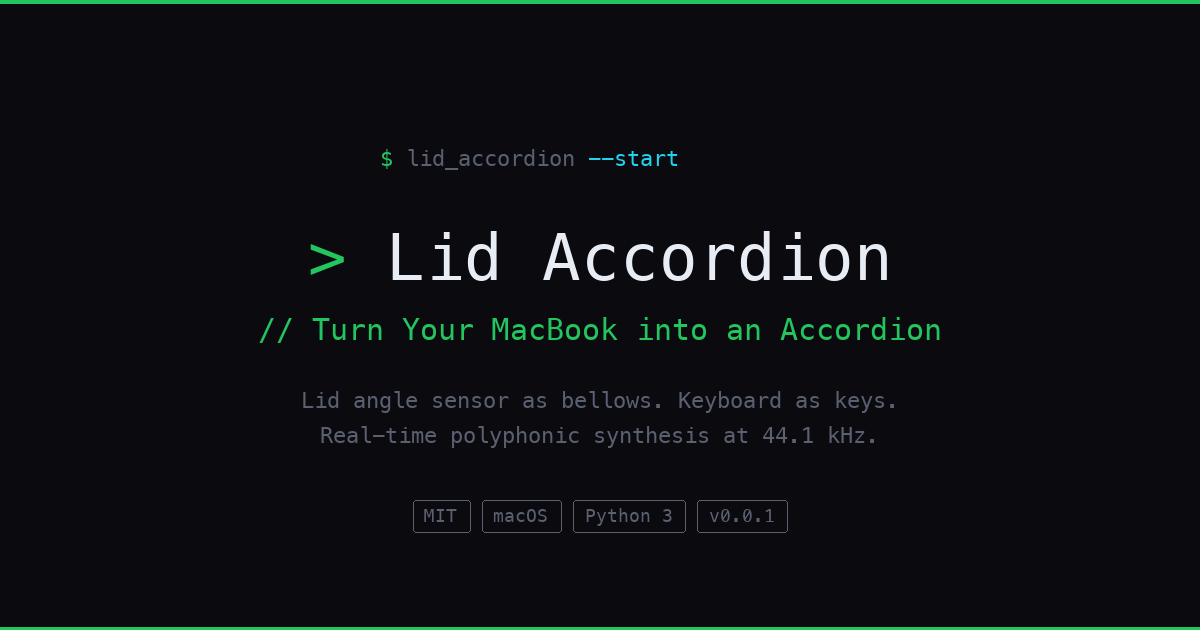
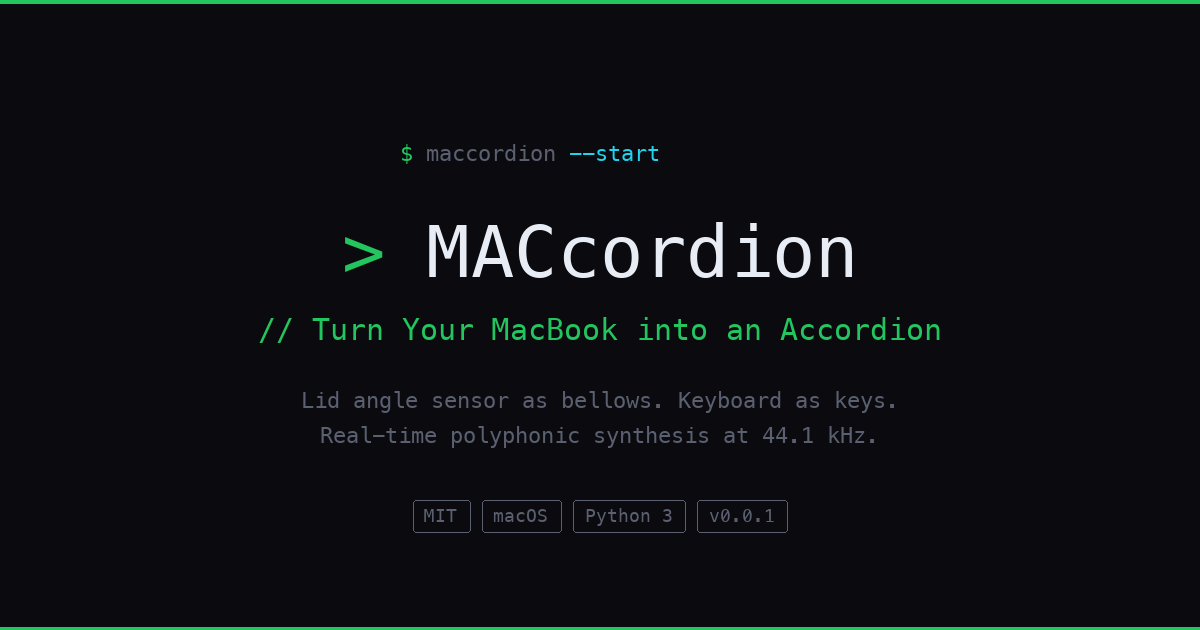
Rebrand to MACcordion (Mac + Accordion)
- Rename all instances of Lid Accordion to MACcordion
- Update OG/Twitter/JSON-LD metadata
- Regenerate OG image with new branding
- Update terminal prompt: $ maccordion --start
- Add MACcordion to SEO keywords

Changed region(s): [[0.2467, 0.3317, 0.74, 0.4524], [0.3083, 0.2111, 0.555, 0.2714]]

diff --git a/docs/index.html b/docs/index.html
@@ -3,28 +3,28 @@
 <head>
   <meta charset="UTF-8">
   <meta name="viewport" content="width=device-width, initial-scale=1.0">
-  <title>Lid Accordion — Turn Your MacBook into an Accordion</title>
+  <title>MACcordion — Turn Your MacBook into an Accordion</title>
   <meta name="description" content="Turn your MacBook into a virtual accordion! Uses the lid angle sensor as bellows, keyboard as keys, with real-time polyphonic audio synthesis. Free and open source.">
 
   <!-- SEO -->
-  <meta name="keywords" content="MacBook, accordion, lid angle sensor, music, synthesizer, macOS, open source, pygame, real-time audio">
+  <meta name="keywords" content="MACcordion, MacBook, accordion, lid angle sensor, music, synthesizer, macOS, open source, pygame, real-time audio">
   <meta name="author" content="MacacaGames">
   <link rel="canonical" href="https://lidaccordion.macaca.games/">
 
   <!-- Open Graph -->
   <meta property="og:type" content="website">
-  <meta property="og:title" content="Lid Accordion — Turn Your MacBook into an Accordion">
+  <meta property="og:title" content="MACcordion — Turn Your MacBook into an Accordion">
   <meta property="og:description" content="Turn your MacBook into a virtual accordion! Uses the lid angle sensor as bellows, keyboard as keys, with real-time audio synthesis.">
   <meta property="og:url" content="https://lidaccordion.macaca.games/">
   <meta property="og:image" content="https://lidaccordion.macaca.games/assets/og-image.png">
   <meta property="og:image:width" content="1200">
   <meta property="og:image:height" content="630">
-  <meta property="og:site_name" content="Lid Accordion">
+  <meta property="og:site_name" content="MACcordion">
   <meta property="og:locale" content="en_US">
 
   <!-- Twitter Card -->
   <meta name="twitter:card" content="summary_large_image">
-  <meta name="twitter:title" content="Lid Accordion — Turn Your MacBook into an Accordion">
+  <meta name="twitter:title" content="MACcordion — Turn Your MacBook into an Accordion">
   <meta name="twitter:description" content="Turn your MacBook into a virtual accordion! Uses the lid angle sensor as bellows, keyboard as keys, with real-time audio synthesis.">
   <meta name="twitter:image" content="https://lidaccordion.macaca.games/assets/og-image.png">
 
@@ -33,7 +33,7 @@
   {
     "@context": "https://schema.org",
     "@type": "SoftwareApplication",
-    "name": "Lid Accordion",
+    "name": "MACcordion",
     "description": "Turn your MacBook into a virtual accordion using the lid angle sensor as bellows with real-time polyphonic audio synthesis.",
     "url": "https://lidaccordion.macaca.games/",
     "applicationCategory": "MultimediaApplication",
@@ -58,7 +58,7 @@
   <!-- Sticky Nav -->
   <nav class="nav" id="nav">
     <div class="nav-inner">
-      <a href="#" class="nav-brand">🪗 Lid Accordion</a>
+      <a href="#" class="nav-brand">🪗 MACcordion</a>
       <div class="nav-links">
         <a href="#features">Features</a>
         <a href="#demo">Demo</a>
@@ -74,8 +74,8 @@
     <div class="scanlines"></div>
     <div class="hero-glow"></div>
     <div class="container">
-      <div class="terminal-line"><span class="prompt">$</span> lid_accordion <span class="flag">--start</span></div>
-      <h1><span class="blink">&gt;</span> Lid Accordion</h1>
+      <div class="terminal-line"><span class="prompt">$</span> maccordion <span class="flag">--start</span></div>
+      <h1><span class="blink">&gt;</span> MACcordion</h1>
       <p class="tagline">// Turn Your MacBook into an Accordion</p>
       <p class="subtitle">Lid angle sensor as bellows. Keyboard as keys. Real-time polyphonic synthesis at 44.1 kHz.</p>
       <div class="hero-actions">
@@ -127,7 +127,7 @@
       <h2>See It in Action</h2>
       <p class="section-desc">Watch how the MacBook lid becomes your bellows</p>
       <div class="demo-video">
-        <iframe src="https://www.youtube.com/embed/Ar1lbyOmlVo" title="Lid Accordion Demo" frameborder="0" allow="accelerometer; autoplay; clipboard-write; encrypted-media; gyroscope; picture-in-picture" allowfullscreen loading="lazy"></iframe>
+        <iframe src="https://www.youtube.com/embed/Ar1lbyOmlVo" title="MACcordion Demo" frameborder="0" allow="accelerometer; autoplay; clipboard-write; encrypted-media; gyroscope; picture-in-picture" allowfullscreen loading="lazy"></iframe>
       </div>
     </div>
   </section>
@@ -142,13 +142,13 @@
           <div class="install-badge">Recommended</div>
           <h3>Pre-Built App</h3>
           <p class="install-desc">Download the ready-to-run macOS app. No Python or dependencies needed.</p>
-          <a href="https://github.com/MacacaGames/MacbookAccordion/releases/latest" class="btn btn-primary btn-download">Download LidAccordion.app</a>
+          <a href="https://github.com/MacacaGames/MacbookAccordion/releases/latest" class="btn btn-primary btn-download">Download MACcordion.app</a>
           <p class="install-hint">Requires macOS. Check <a href="https://github.com/MacacaGames/MacbookAccordion/releases">Releases</a> for all versions.</p>
         </div>
         <div class="install-card fade-in">
           <h3>Run from Source</h3>
           <pre><code>pip install pygame numpy sounddevice pybooklid
-python lid_accordion.py</code></pre>
+python maccordion.py</code></pre>
         </div>
         <div class="install-card fade-in">
           <h3>Build .app Yourself</h3>
@@ -156,7 +156,7 @@ python lid_accordion.py</code></pre>
 ./build_mac_app.sh
 
 # Run it
-./dist/LidAccordion.app/Contents/MacOS/LidAccordion</code></pre>
+./dist/MACcordion.app/Contents/MacOS/MACcordion</code></pre>
         </div>
       </div>
       <p class="note">Requires macOS + Python 3 (for source/build). Falls back to simulation mode (arrow keys) when the lid angle sensor is unavailable.</p>
